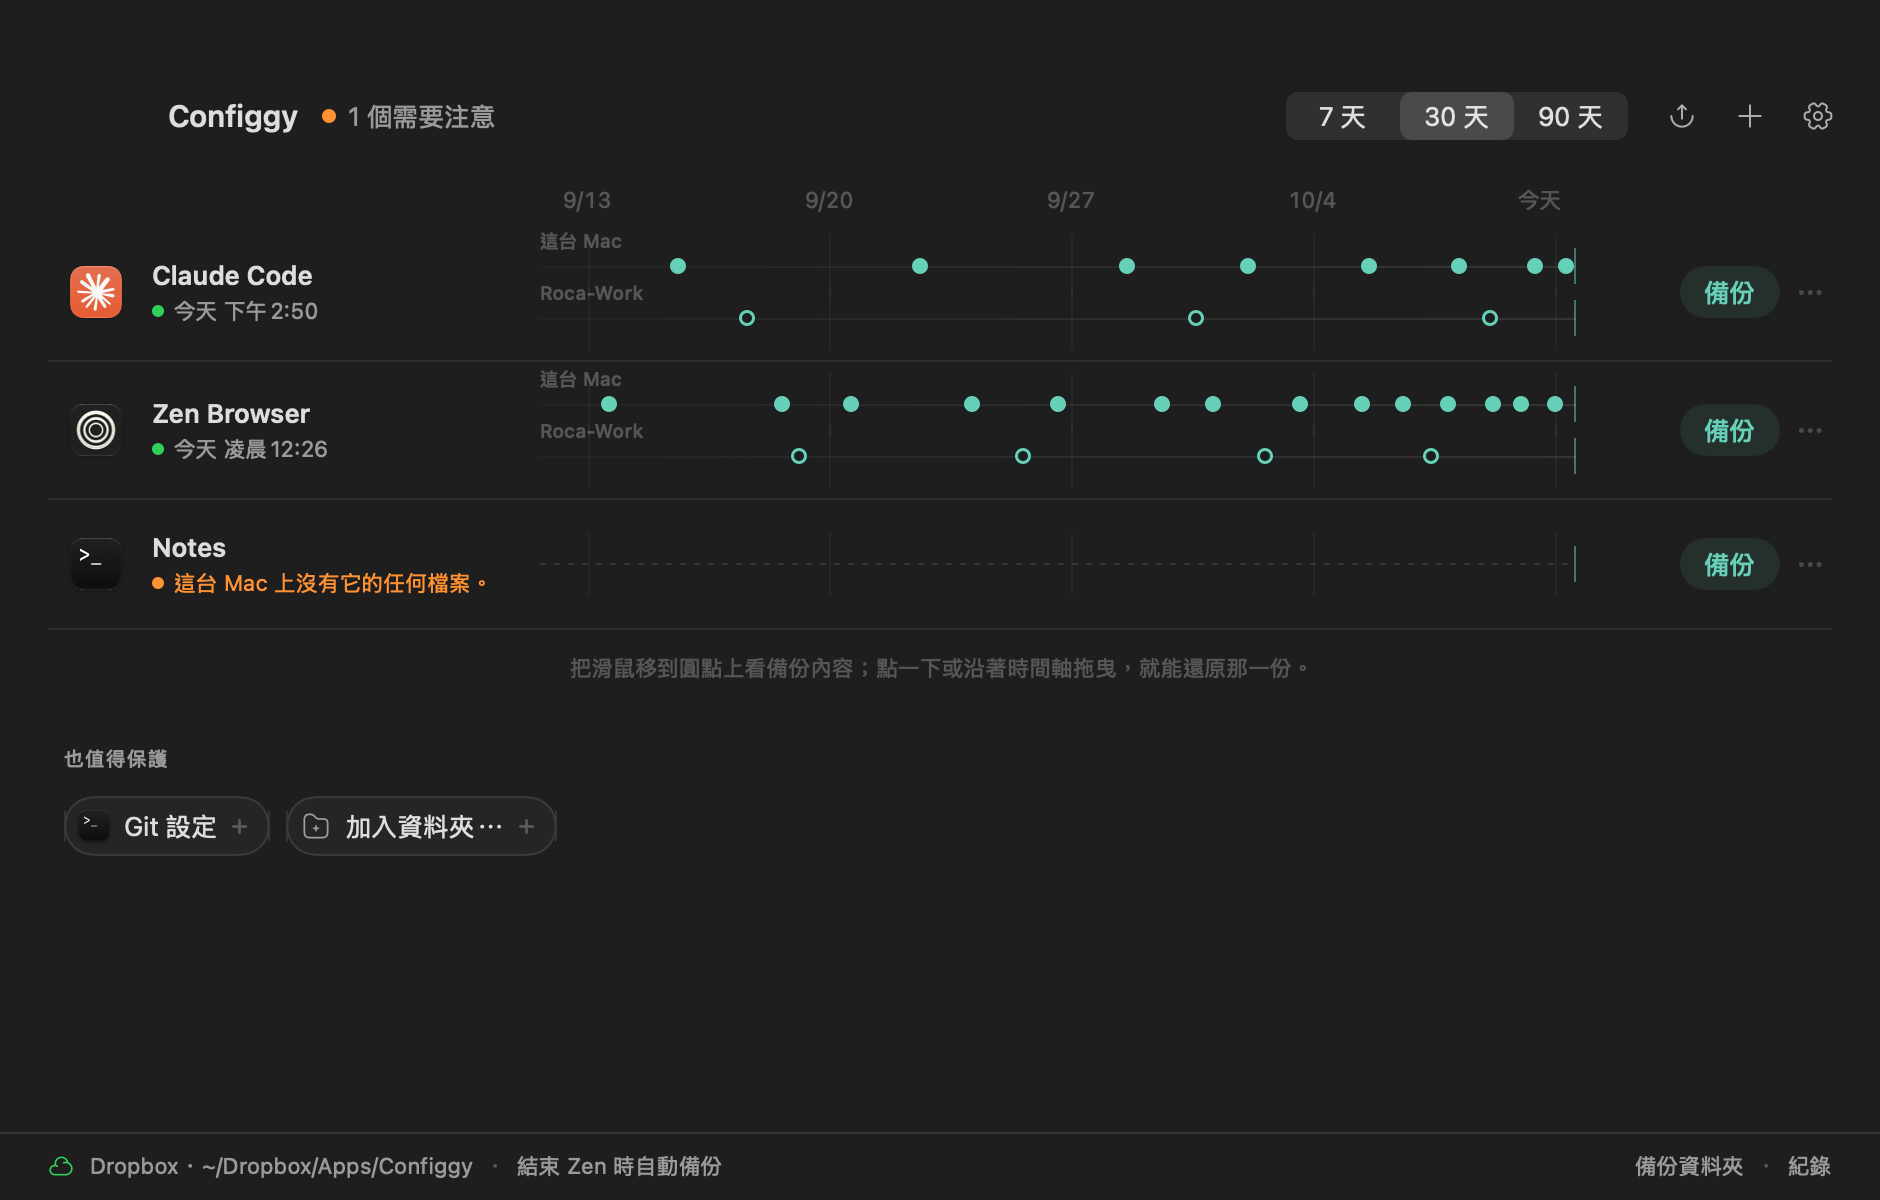
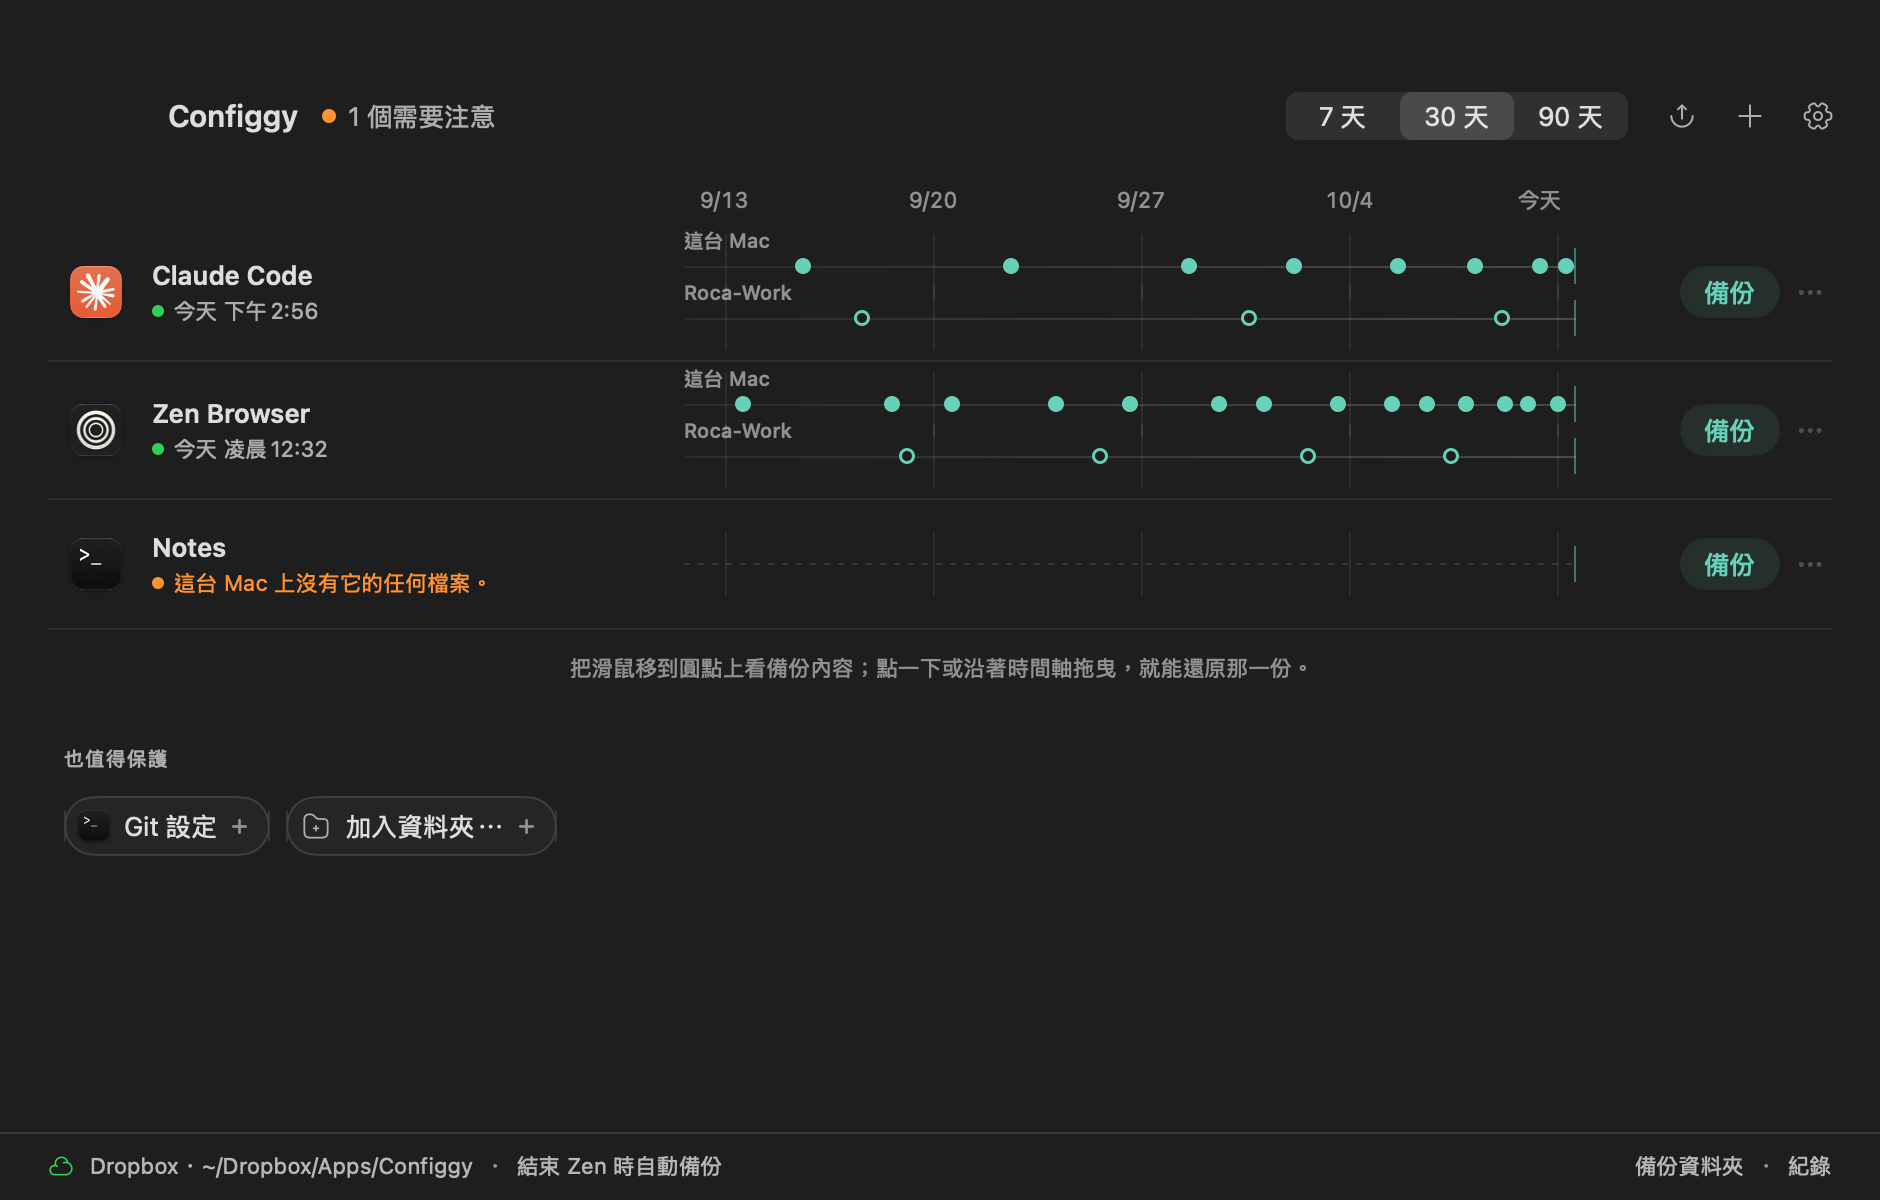
時間軸：提高深色模式對比，超出範圍的備份顯示在左側
- 設計規範的灰階改為固定比例：輔助文字在深淺色都至少 4.5:1，分隔線與時間軸加深
- 每條軸左側固定保留邊欄，顯示比範圍更早的最新一份與數量（例如 ‹ 10/2 · 4），滑過看詳情、點一下還原
- 自我測試加入 7 天範圍的截圖

diff --git a/Configgy/Window/MainWindow.swift b/Configgy/Window/MainWindow.swift
@@ -59,6 +59,8 @@ enum TimelineMetrics {
     static let rowHeight: CGFloat = 64
     static let laneHeight: CGFloat = 18
     static let laneInset: CGFloat = 16
+    /// Room at the left of every lane for the "older backups" marker; the plot starts after it.
+    static let edgeGutter: CGFloat = 72
 }
 
 struct MainView: View {
@@ -413,11 +415,12 @@ private struct TimelineAxis: View {
                 let now = Date()
                 ZStack(alignment: .topLeading) {
                     ForEach(TimelineGeometry.ticks(range: range, now: now), id: \.self) { date in
-                        let x = TimelineGeometry.x(for: date, now: now, range: range, width: geo.size.width)
+                        let g = TimelineMetrics.edgeGutter
+                        let x = g + TimelineGeometry.x(for: date, now: now, range: range, width: geo.size.width - g)
                         Text(label(date, now: now))
                             .textStyle(.caption).foregroundStyle(Palette.faint).monospacedDigit()
                             .fixedSize()
-                            .position(x: min(max(x, 18), geo.size.width - 18), y: 8)
+                            .position(x: min(max(x, TimelineMetrics.edgeGutter + 12), geo.size.width - 18), y: 8)
                     }
                 }
             }
@@ -556,38 +559,38 @@ private struct TimelineLane: View {
             let now = Date()
             let width = geo.size.width
             let mid = TimelineMetrics.laneHeight / 2
+            let g = TimelineMetrics.edgeGutter
             let points = visible(now: now, width: width)
             let earlier = snapshots.count - points.count
             ZStack(alignment: .topLeading) {
                 // Faint guides under each labelled day, so dots compare across rows.
                 ForEach(TimelineGeometry.ticks(range: range, now: now), id: \.self) { day in
-                    Rectangle().fill(Palette.hairline.opacity(0.35))
+                    Rectangle().fill(Palette.hairline.opacity(0.6))
                         .frame(width: 1, height: TimelineMetrics.laneHeight + 14)
-                        .offset(x: TimelineGeometry.x(for: day, now: now, range: range, width: width), y: -7)
+                        .offset(x: g + TimelineGeometry.x(for: day, now: now, range: range, width: width - g), y: -7)
                 }
                 // The lane, brighter toward now; dashed while there's nothing on it.
                 if snapshots.isEmpty {
-                    Path { p in p.move(to: CGPoint(x: 0, y: mid)); p.addLine(to: CGPoint(x: width, y: mid)) }
+                    Path { p in p.move(to: CGPoint(x: g, y: mid)); p.addLine(to: CGPoint(x: width, y: mid)) }
                         .stroke(Palette.hairline, style: StrokeStyle(lineWidth: 1, dash: [3, 4]))
                 } else {
-                    LinearGradient(colors: [Palette.hairline.opacity(0.25), Palette.hairline], startPoint: .leading, endPoint: .trailing)
-                        .frame(width: width, height: 1)
-                        .offset(y: mid)
+                    LinearGradient(colors: [Palette.hairline.opacity(0.5), Palette.hairline.opacity(1.6)], startPoint: .leading, endPoint: .trailing)
+                        .frame(width: width - g, height: 1)
+                        .offset(x: g, y: mid)
                 }
                 // Today.
                 Rectangle().fill(.accentGraphic.opacity(0.5)).frame(width: 1, height: TimelineMetrics.laneHeight)
                     .offset(x: width - 1)
                 if showsHost {
                     Text(isThisMac ? String(localized: "This Mac") : host)
-                        .font(.system(size: 9.5, weight: .medium)).foregroundStyle(Palette.faint)
+                        .font(.system(size: 10, weight: .medium)).foregroundStyle(Palette.faint)
                         .fixedSize()
-                        .offset(y: -9)
+                        .offset(x: g, y: -10)
                 }
-                if earlier > 0 {
-                    Text(verbatim: "← \(earlier)").textStyle(.caption).foregroundStyle(Palette.faint)
+                if let older = olderNewest(now: now, width: width), earlier > 0 {
+                    EdgeMarker(snapshot: older, count: earlier, isThisMac: isThisMac, focused: focused == older) { pick(older) }
                         .fixedSize()
-                        .offset(y: mid + 3)
-                        .help(String(localized: "\(earlier) earlier"))
+                        .position(x: g / 2 - 2, y: mid)
                 }
                 ForEach(points, id: \.snapshot.name) { point in
                     dot(for: point.snapshot)
@@ -602,7 +605,7 @@ private struct TimelineLane: View {
                     Image(systemName: "exclamationmark.circle.fill").font(.system(size: 11)).foregroundStyle(Palette.bad)
                         .position(x: width - 5, y: mid)
                 }
-                if let focused, let x = points.first(where: { $0.snapshot == focused })?.x {
+                if let focused, let x = points.first(where: { $0.snapshot == focused })?.x ?? (focused == olderNewest(now: now, width: width) ? g / 2 : nil) {
                     Callout(snapshot: focused)
                         .fixedSize()
                         .position(x: min(max(x, 100), width - 100), y: -14)
@@ -615,12 +618,17 @@ private struct TimelineLane: View {
             .contentShape(Rectangle())
             .onContinuousHover { phase in
                 switch phase {
-                case .active(let location): focused = nearest(points, to: location.x)
+                case .active(let location):
+                    focused = location.x < g && earlier > 0 ? olderNewest(now: now, width: width) : nearest(points, to: location.x)
                 case .ended: focused = nil
                 }
             }
             .gesture(DragGesture(minimumDistance: 0)
-                .onChanged { focused = nearest(points, to: $0.location.x, within: 40) }
+                .onChanged { value in
+                    focused = value.location.x < g && earlier > 0
+                        ? olderNewest(now: now, width: width)
+                        : nearest(points, to: value.location.x, within: 40)
+                }
                 .onEnded { _ in if let focused { pick(focused) } })
             .animation(.easeOut(duration: 0.12), value: focused)
         }
@@ -630,11 +638,17 @@ private struct TimelineLane: View {
         .accessibilityLabel(Text(isThisMac ? String(localized: "Backups on this Mac") : String(localized: "Backups on \(host)")))
     }
 
+    /// The newest backup older than the range, shown at the lane's left edge.
+    private func olderNewest(now: Date, width: CGFloat) -> Snapshot? {
+        snapshots.last { s in s.date.map { now.timeIntervalSince($0) > range.seconds } ?? true }
+    }
+
     private func visible(now: Date, width: CGFloat) -> [Point] {
         snapshots.compactMap { s in
             guard let date = s.date else { return nil }
-            let x = TimelineGeometry.x(for: date, now: now, range: range, width: width)
-            return x >= 0 ? Point(snapshot: s, x: min(x, width - 5)) : nil
+            let g = TimelineMetrics.edgeGutter
+            let x = TimelineGeometry.x(for: date, now: now, range: range, width: width - g)
+            return x >= 0 ? Point(snapshot: s, x: min(g + x, width - 5)) : nil
         }
     }
 
@@ -659,6 +673,35 @@ private struct TimelineLane: View {
         .accessibilityLabel(Text(Callout.describe(snapshot)))
         .accessibilityAddTraits(.isButton)
         .accessibilityAction { pick(snapshot) }
+    }
+}
+
+/// "‹ 9/30 · 3": backups older than the range, at the lane's left edge. Click restores the newest of them.
+private struct EdgeMarker: View {
+    let snapshot: Snapshot
+    let count: Int
+    let isThisMac: Bool
+    let focused: Bool
+    let action: () -> Void
+
+    var body: some View {
+        Button(action: action) {
+            HStack(spacing: 4) {
+                Image(systemName: "chevron.left").font(.system(size: 8, weight: .bold))
+                Text(label).font(.system(size: 10.5, weight: .medium)).monospacedDigit()
+            }
+            .foregroundStyle(focused ? AnyShapeStyle(.accentText) : AnyShapeStyle(Palette.muted))
+            .padding(.horizontal, 7).frame(height: 18)
+            .background(Palette.background, in: Capsule())
+            .overlay(Capsule().strokeBorder(focused ? AnyShapeStyle(.accentGraphic) : AnyShapeStyle(Palette.hairline.opacity(1.6))))
+        }
+        .buttonStyle(.plain)
+        .accessibilityLabel(Text(String(localized: "\(count) earlier backups; newest \(Callout.describe(snapshot))")))
+    }
+
+    private var label: String {
+        let date = snapshot.date.map { $0.formatted(.dateTime.month(.defaultDigits).day()) } ?? "?"
+        return count > 1 ? "\(date) · \(count)" : date
     }
 }
 

diff --git a/Configgy/DesignSystem/Theme.swift b/Configgy/DesignSystem/Theme.swift
@@ -65,9 +65,13 @@ extension View {
 /// light and dark both come for free.
 enum Palette {
     static let ink = Color.primary
-    static let muted = Color.secondary
-    static let faint = Color(nsColor: .tertiaryLabelColor)
-    static let hairline = Color(nsColor: .separatorColor)
+    /// Secondary text: about 8:1 on the window background in both appearances.
+    static let muted = Color.primary.opacity(0.75)
+    /// The quietest text still meant to be read: 4.5:1 or better in light and dark
+    /// (the system's tertiary label is near 2:1 in dark mode).
+    static let faint = Color.primary.opacity(0.6)
+    /// Dividers, guides and timeline lanes; visible on dark as well as light.
+    static let hairline = Color.primary.opacity(0.14)
     static let background = Color(nsColor: .windowBackgroundColor)
     static let hover = Color.primary.opacity(0.06)
     static let card = Color.primary.opacity(0.035)

diff --git a/Configgy/App/SelfTest.swift b/Configgy/App/SelfTest.swift
@@ -210,6 +210,11 @@ enum SelfTest {
         let mainShot = main.snapshot()
         check("the main window renders", mainShot != nil)
         save(mainShot, shots, "main")
+        // A week: older backups must still show, at each lane's left edge.
+        UserDefaults.standard.set(7, forKey: "Configgy.timelineRange")
+        try await Task.sleep(for: .milliseconds(500))
+        save(main.snapshot(), shots, "main-week")
+        UserDefaults.standard.set(30, forKey: "Configgy.timelineRange")
         main.close()
 
         let settings = SettingsWindow(model: model)

diff --git a/scripts/l10n/translations.py b/scripts/l10n/translations.py
@@ -22,6 +22,7 @@ T = {
 "%lld need attention": ["%lld 個需要注意", "%lld 件に注意が必要", "%lld개 확인 필요", "%lld necesitan atención", "%lld precisam de atenção"],
 "%lld older backups contain secret files.": ["%lld 份舊備份含有祕密檔。", "%lld 個の古いバックアップに秘密ファイルがあります。", "이전 백업 %lld개에 비밀 파일이 있습니다.", "%lld copias antiguas contienen archivos secretos.", "%lld backups antigos contêm arquivos secretos."],
 "%lld days": ["%lld 天", "%lld日", "%lld일", "%lld días", "%lld dias"],
+"%lld earlier backups; newest %@": ["更早還有 %1$lld 份備份，最新的是 %2$@", "それ以前のバックアップ %1$lld 個。最新は %2$@", "이전 백업 %1$lld개, 가장 최근은 %2$@", "%1$lld copias anteriores; la más reciente: %2$@", "%1$lld backups anteriores; o mais recente: %2$@"],
 "%lld earlier": ["更早還有 %lld 份", "それ以前に %lld 個", "이전 %lld개", "%lld anteriores", "%lld anteriores"],
 "Add %@": ["加入 %@", "%@ を追加", "%@ 추가", "Añadir %@", "Adicionar %@"],
 "Also worth protecting": ["也值得保護", "ほかにも保護したいもの", "함께 보호할 만한 것", "También vale la pena proteger", "Também vale proteger"],
